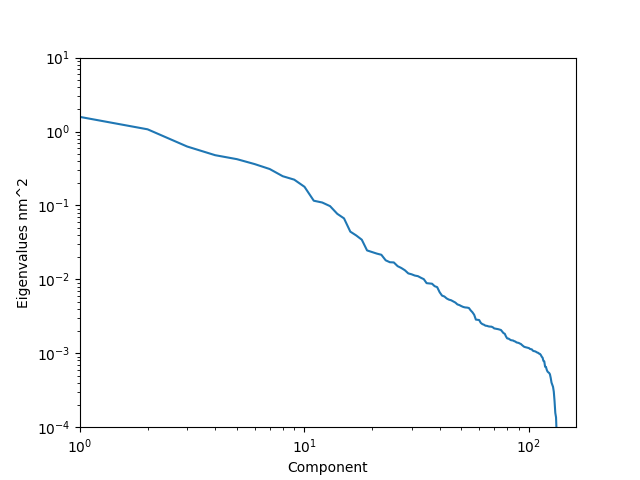
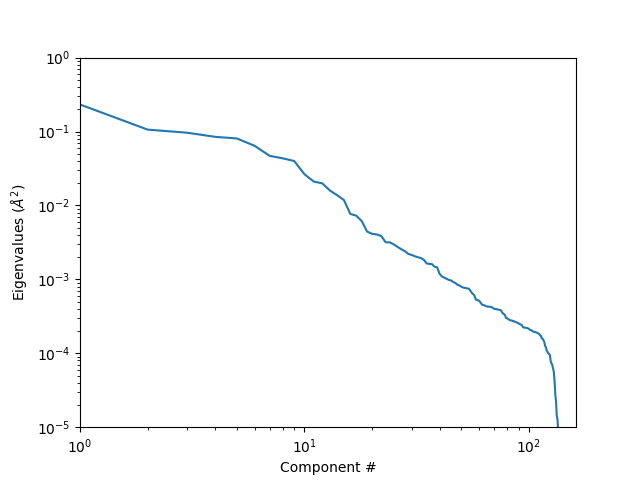
eigevalue normalization

diff --git a/scr/eigenvalues.py b/scr/eigenvalues.py
@@ -2,7 +2,7 @@ import numpy as np
 import matplotlib.pyplot as plt
 import sys
 
-
+# Load eigenvalues
 def get_data(file_name):
 	file = open(file_name, 'r')
 	lines = file.readlines()
@@ -11,16 +11,16 @@ def get_data(file_name):
 		eigenvals.append(float(lines[i].split()[1]))
 	return eigenvals
 
-
+# Plot eigenvalues
 def eig_pic(eigenvals,outF):
 	plt.loglog(np.linspace(1, len(eigenvals), len(eigenvals)), eigenvals)
 	plt.xlim([1,len(eigenvals)])
-	plt.ylabel("Eigenvalues nm^2")
-	plt.xlabel("Component")
-	plt.ylim([10 ** -4, 10])
+	plt.ylabel(r'Eigenvalues ($\AA^2$)')
+	plt.xlabel("Component #")
+	plt.ylim([10 ** -5, 1])
 	plt.savefig(outF)
 
-
+# Plot cumulative eigenvalues
 def eig_pic_cumulative(eigenvals,outF):
 	eigsum = sum(eigenvals)
 	eigcum = [eigenvals[0]]
@@ -32,8 +32,8 @@ def eig_pic_cumulative(eigenvals,outF):
 	plt.axhline(y = 0.5, color = 'black', linestyle = '--')
 	plt.axhline(y = 0.9, color = 'black', linestyle = '--')
 	plt.axhline(y = 1, color = 'black', linestyle = '--')
-	plt.ylabel("Cumulative nm^2")
-	plt.xlabel("Component")
+	plt.ylabel("Cumulative")
+	plt.xlabel("Component #")
 	plt.yticks([0.1, 0.3, 0.5, 0.7, 0.9, 1.0])
 	plt.ylim([0.0, 1.03])
 	plt.xlim([1, len(eigcum)])

diff --git a/scr/PCA.py b/scr/PCA.py
@@ -55,7 +55,7 @@ def PCA_mem(traj, top):
 	
 	# calculation of eigenvalues and eigenvectors
 	eig_vals, eig_vecs = np.linalg.eigh(cov_mat)
-	return eig_vals[::-1], eig_vecs, cov_mat
+	return 10*eig_vals[::-1]/(mean_str.n_atoms), eig_vecs, cov_mat
 
 
 def main(traj_file, top_file, val_file, vec_file, cov_file):
